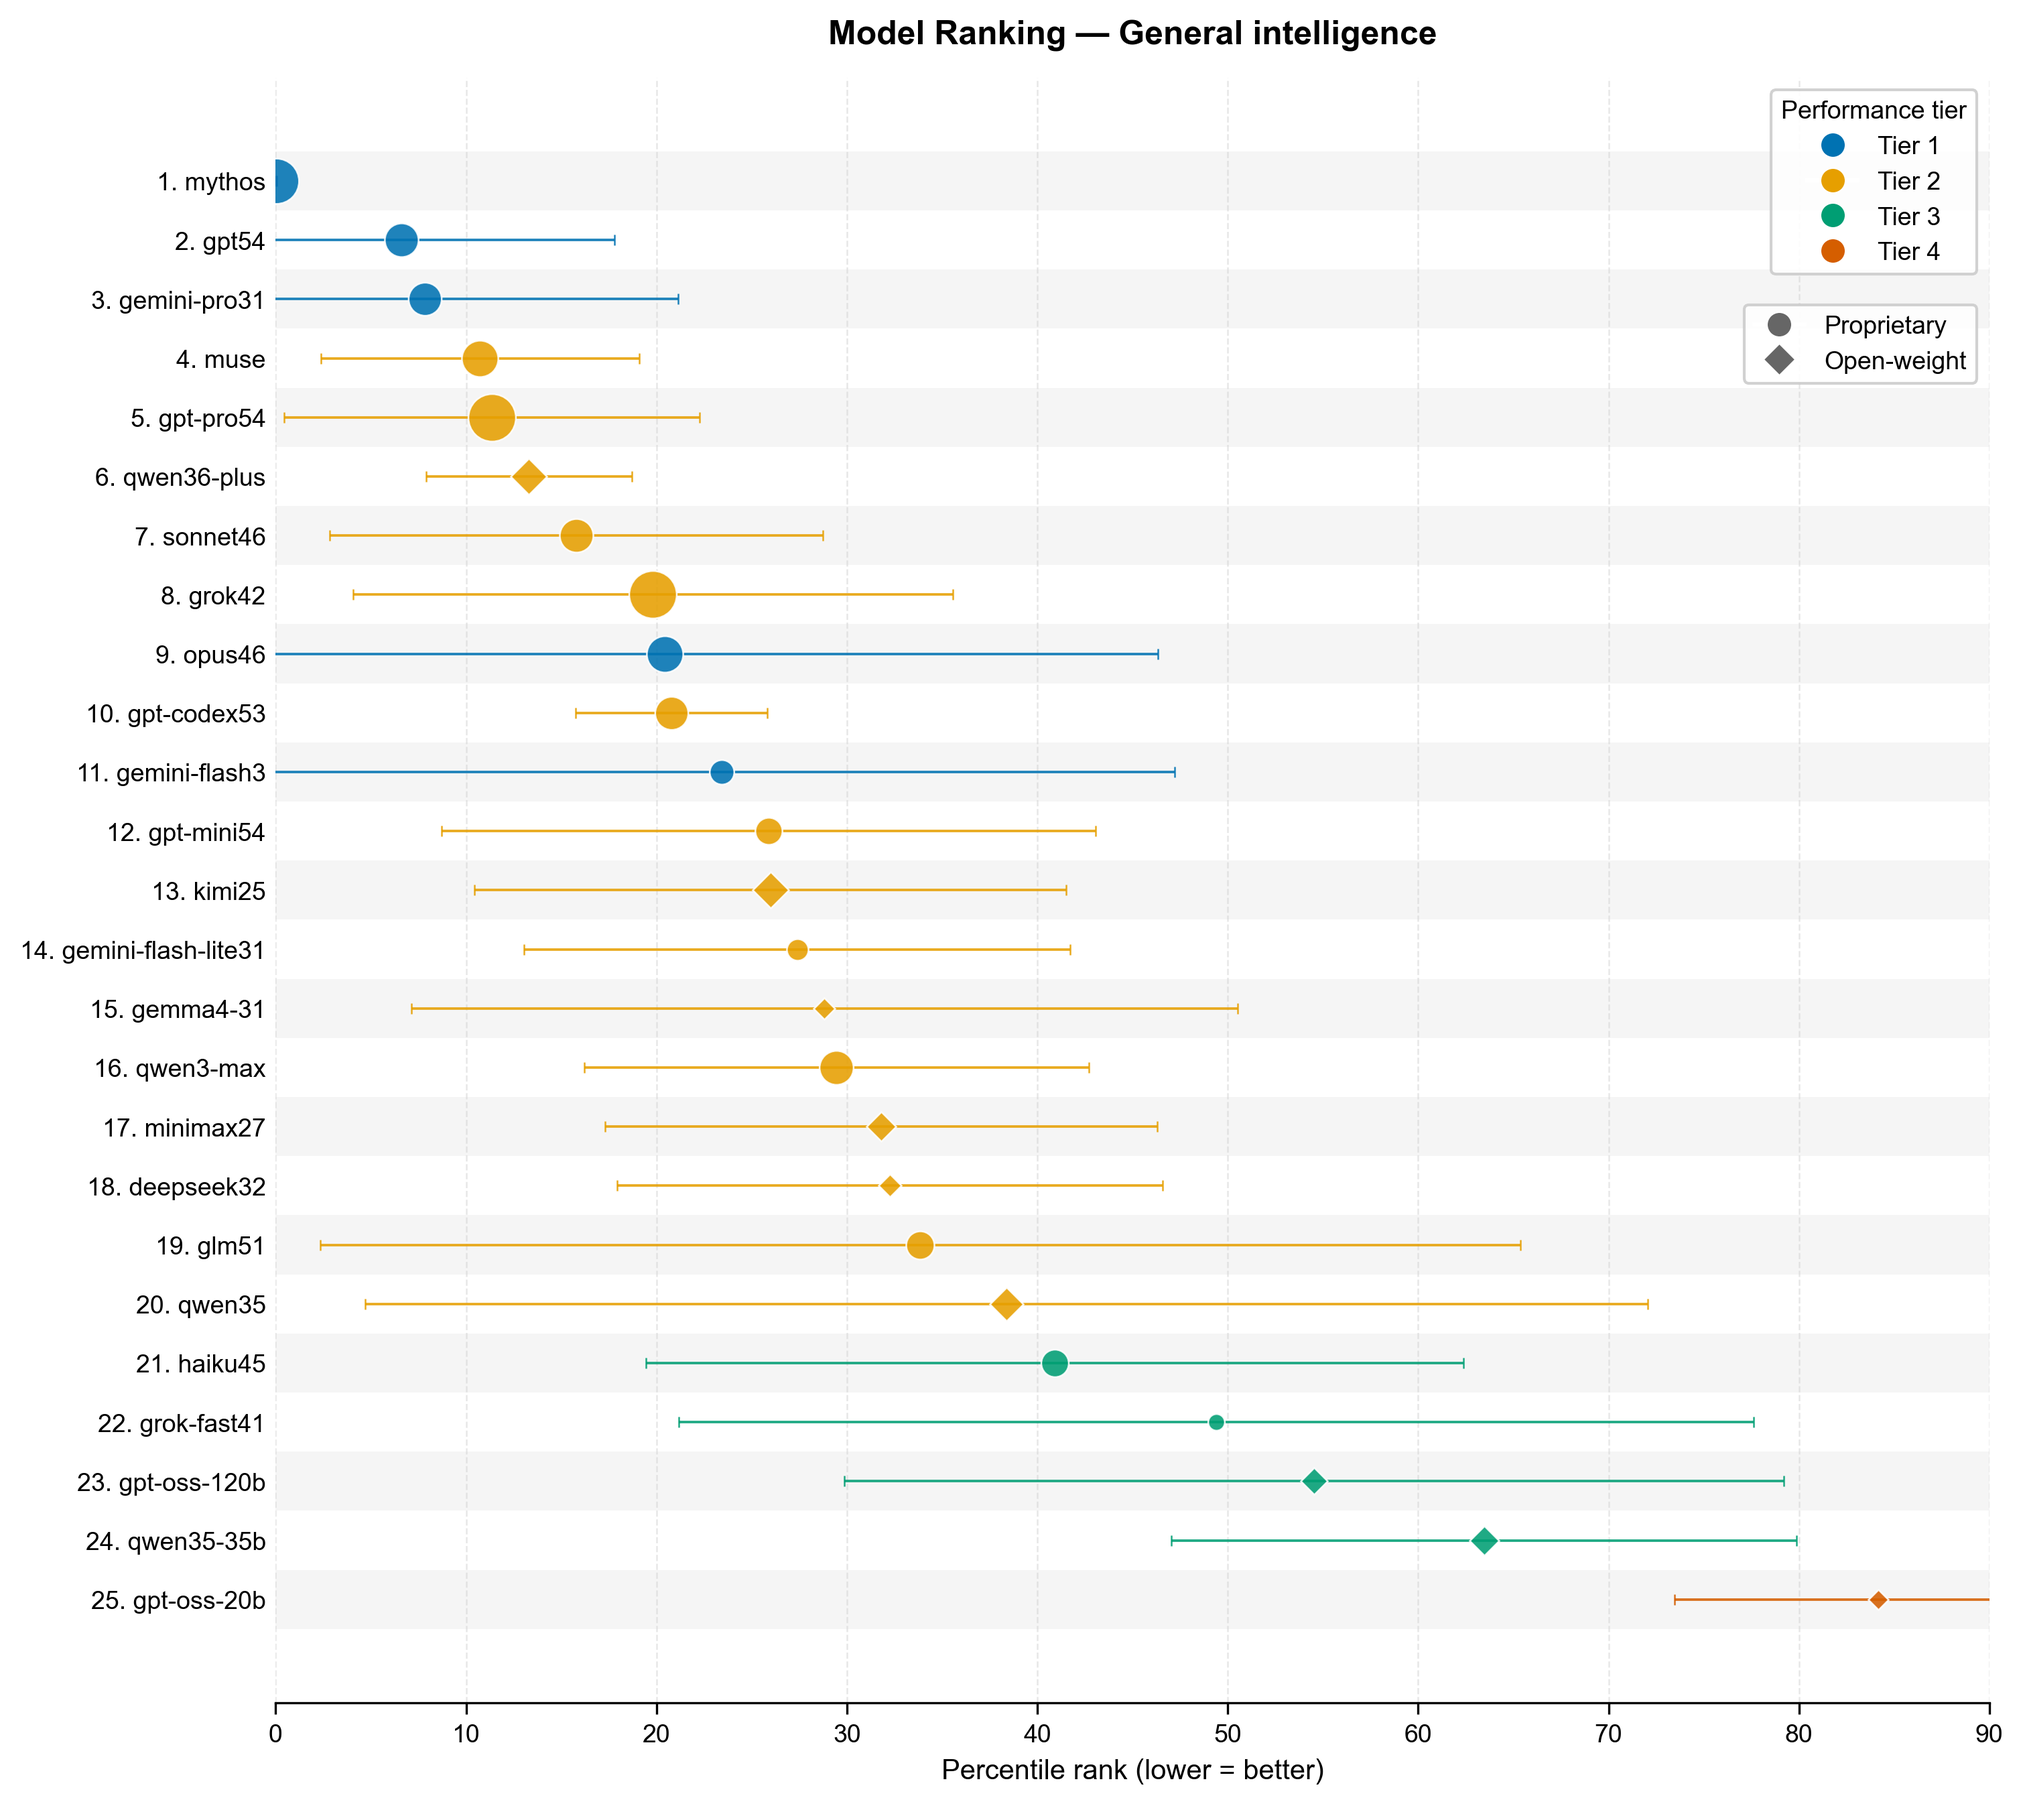
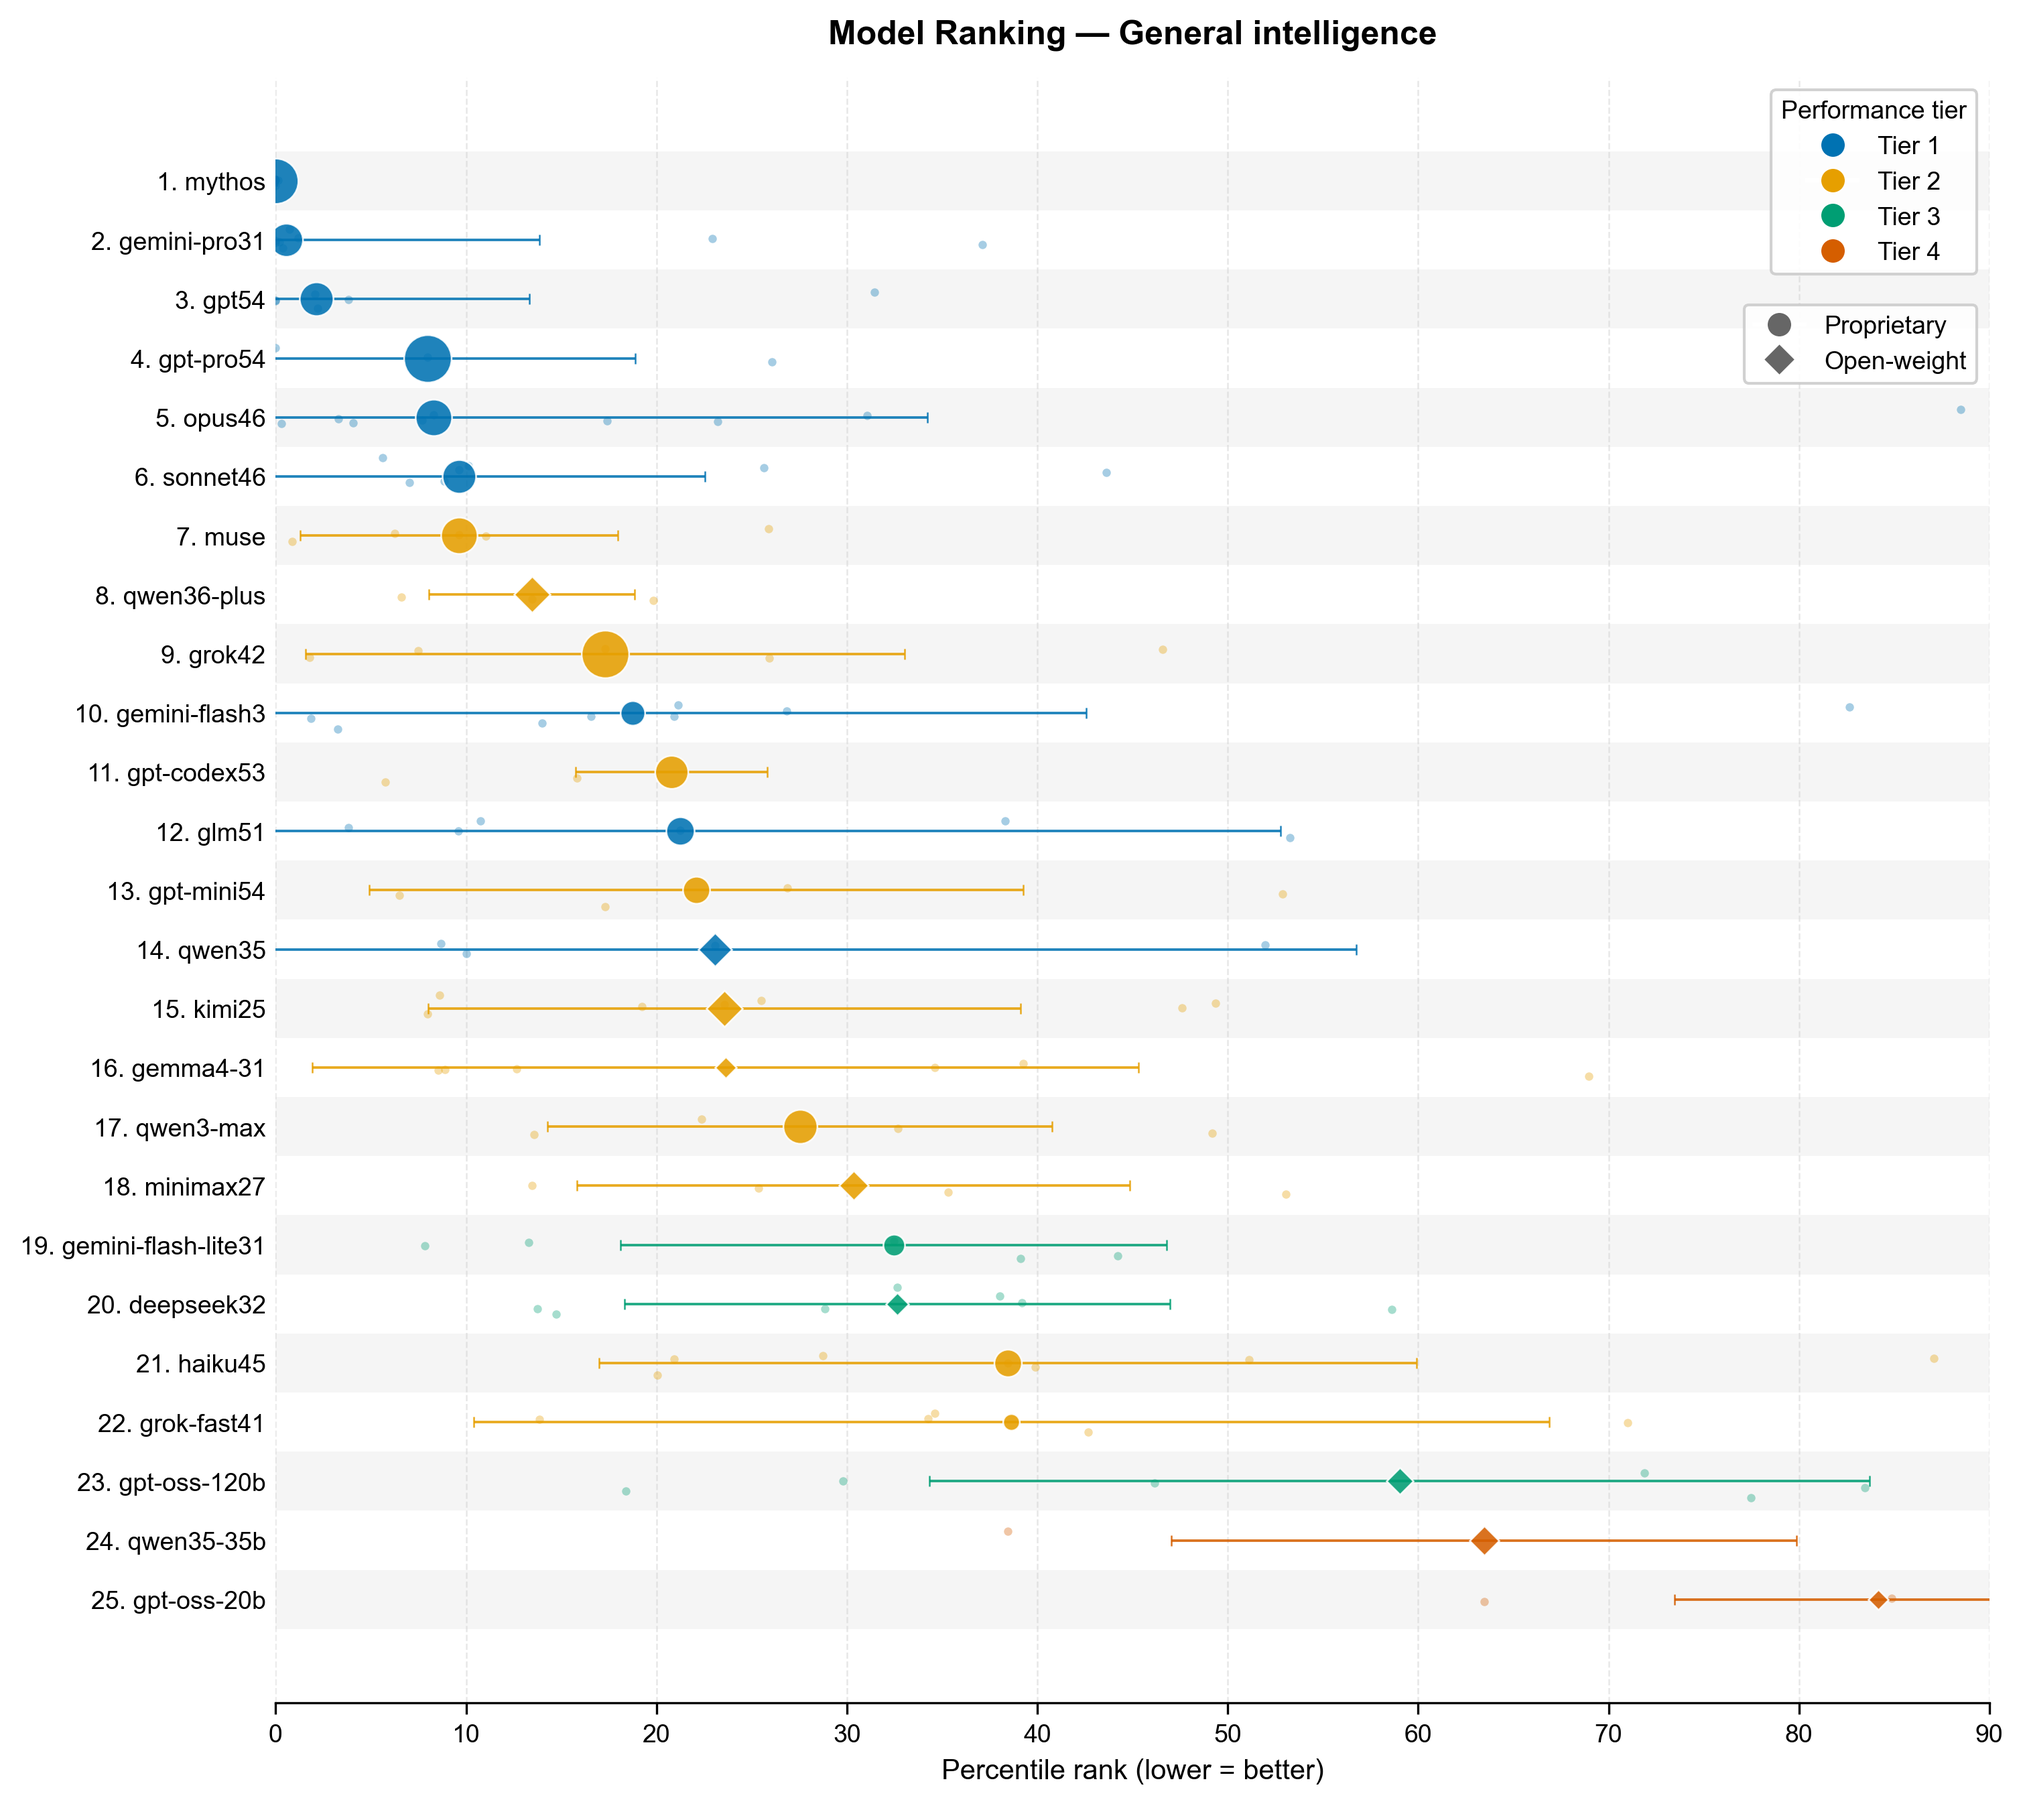
switch aggregate to median, overlay raw benchmark dots on ranking plots
- Aggregate statistic changes from mean to median for robustness against
  outlier benchmarks; SD (error bar) still uses population stddev around mean
- create_ranking_plot: overlay individual per-benchmark percentiles as small
  semi-transparent jittered dots to reveal spread, skewness, and outliers
- create_plot (scatter): keeps only aggregate + error bars, no dot overlay

diff --git a/rank_models.py b/rank_models.py
@@ -260,6 +260,7 @@ def create_plot(
     debug: bool = False,
     category: str | None = None,
     quadrants: bool = False,
+    model_scores: dict[str, list[float]] | None = None,
 ) -> None:
     """Create a scatter plot of model performance vs. cost and save to PNG.
 
@@ -269,6 +270,7 @@ def create_plot(
         debug: If True, show detailed tiering debug output
         category: Optional category label shown as subtitle
         quadrants: If True, draw quadrant dividers and labels on the plot
+        model_scores: Per-model list of raw benchmark percentiles for overlay dots
     """
     try:
         import matplotlib
@@ -445,6 +447,7 @@ def create_ranking_plot(
     open_models: set[str] | None = None,
     debug: bool = False,
     category: str | None = None,
+    model_scores: dict[str, list[float]] | None = None,
 ) -> None:
     """Create a horizontal ranking plot with models ordered by score.
 
@@ -454,6 +457,7 @@ def create_ranking_plot(
         open_models: Set of open source model names
         debug: If True, show detailed tiering debug output
         category: Optional category label shown in the title
+        model_scores: Per-model list of raw benchmark percentiles for overlay dots
     """
     try:
         import matplotlib
@@ -464,6 +468,9 @@ def create_ranking_plot(
         print("Plotting requires matplotlib. Install with:", file=sys.stderr)
         print("  pip install matplotlib", file=sys.stderr)
         sys.exit(1)
+
+    import random
+    random.seed(42)
 
     valid_sds = [sd for _, _, sd, _, _ in results if sd is not None]
     avg_sd = sum(valid_sds) / len(valid_sds) if valid_sds else 0.0
@@ -518,6 +525,21 @@ def create_ranking_plot(
                 markeredgewidth=0.6,
                 zorder=3,
             )
+
+            # Overlay individual benchmark percentiles as jittered faint dots
+            if model_scores and model in model_scores:
+                for pct in model_scores[model]:
+                    jitter = random.gauss(0, 0.12)
+                    ax.plot(
+                        pct * 100,
+                        i + jitter,
+                        marker="o",
+                        color=color,
+                        alpha=0.35,
+                        markersize=3,
+                        markeredgewidth=0,
+                        zorder=2,
+                    )
 
         y_labels = [f"{i + 1}. {model}" for i, (model, *_) in enumerate(sorted_results)]
         ax.set_yticks(range(n_models))
@@ -727,12 +749,15 @@ def main():
             continue
 
         mean = sum(scores) / n
+        sorted_scores = sorted(scores)
+        mid = n // 2
+        median = sorted_scores[mid] if n % 2 == 1 else (sorted_scores[mid - 1] + sorted_scores[mid]) / 2
 
-        # Sparse-data penalty (added to the average, capped at 1.0)
+        # Sparse-data penalty (added to the median, capped at 1.0)
         penalty = 0.25 if n == 1 else (0.10 if n == 2 else 0.0)
-        avg = min(mean + penalty, 1.0)
+        avg = min(median + penalty, 1.0)
 
-        # Population std-dev of the raw percentile scores
+        # Population std-dev of the raw percentile scores (around mean, for error bar width)
         if n >= 2:
             var = sum((s - mean) ** 2 for s in scores) / n
             sd = math.sqrt(var)
@@ -801,10 +826,10 @@ def main():
         open_models = set(open_dict.keys()) if open_dict else set()
 
         plot_filename = f"{base_name}.png"
-        create_plot(plottable_results, plot_filename, open_models, debug=args.debug, category=category, quadrants=args.quadrants)
+        create_plot(plottable_results, plot_filename, open_models, debug=args.debug, category=category, quadrants=args.quadrants, model_scores=model_scores)
 
         ranking_plot_filename = f"{base_name}_ranking.png"
-        create_ranking_plot(results, ranking_plot_filename, open_models, debug=args.debug, category=category)
+        create_ranking_plot(results, ranking_plot_filename, open_models, debug=args.debug, category=category, model_scores=model_scores)
     elif args.debug:
         # Run tiering with debug output even without plot
         # Filter results to only include models with cost data for consistency
